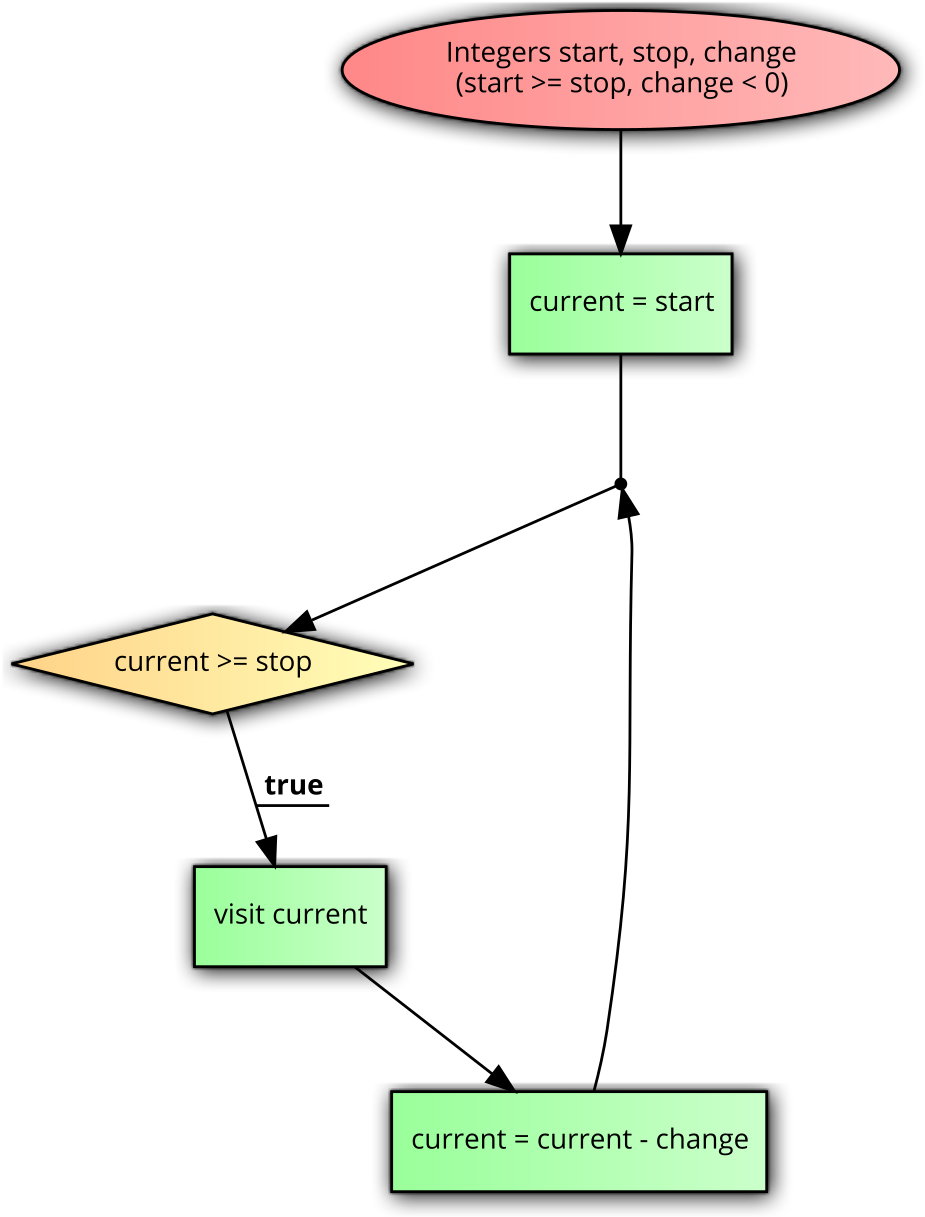
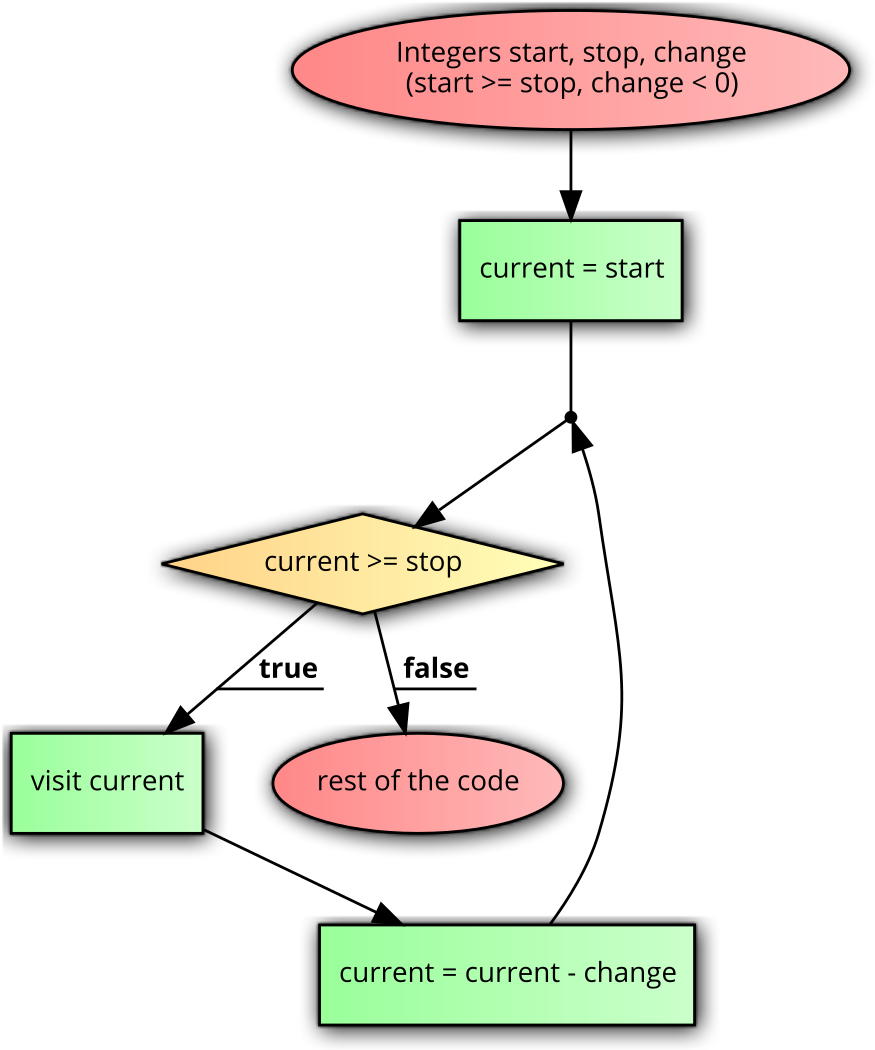
updated loop diagrams (generated from code2flow.com)

Changed region(s): [[0.0, 0.0, 0.9874, 1.0]]

diff --git a/2 - loops/loops.md b/2 - loops/loops.md
@@ -1,0 +1,203 @@
+# Loops
+
+Loops are similar to conditions except that after every iteration of the loop, the expression is checked again.
+
+## A `while` loop
+
+
+```java
+while(boolean expression) {
+	loop code
+}
+rest of the code
+```
+
+<center><img src="whileLoop.png" style="width: 300px;"/></center>
+
+Example:
+
+```java
+int x = 10;
+int result = 5;
+if(x > 8) {
+	result = result + 1;
+}
+print(result);
+```
+
+<center><img src="ifExample.png" style="width: 300px;"/></center>
+
+
+The above code executes the conditional code, increasing `result` by 1 and displaying the value 6.
+
+## An `if-else` condition
+An `if-else` condition executes the if-block if the expression is evaluated to `true` and the else-block if the expression is evaluated to `false`. The rest of code is executes after either case.
+
+```java
+if(boolean expression) {
+	if-block statements
+}
+else {
+	else-block statements
+}
+rest of the code
+```
+
+<center><img src="ifElseCondition.png" style="width: 300px;"/></center>
+
+Example:
+
+```java
+int x = 13;
+boolean isEven;
+if(x % 2 == 0) {
+  isEven = true;
+}
+else {
+  isEven = false;
+}
+println(isEven);
+```
+
+<center><img src="ifElseExample.png" style="width: 250px;"/></center>
+
+The else-block is executed in the above code, `isEven` becomes `false`, and is displayed on the console.
+
+
+##Exercises for conditions
+
+### EXERCISE 1
+
+Draw a flowchart for the following code and determine the values of `a, b, c` after the code executes.
+ 
+```java
+int a = 5, b = 2, c = 10;
+if(a < b) {
+	if(c == a) {
+		c = c + 1;
+	}
+}
+else {
+	if(b < c) {
+		b = c - a;
+	}
+	else {
+		a = 0;
+	}
+}
+```
+
+### EXERCISE 2
+
+Write a piece of code for the following flowchart and determine the values of `a, b, c` after the code executes.
+
+
+<center><img src="nestedIfElseExercise.png" style="width: 250px;"/></center>
+
+##Coding to a truth table
+
+A truth table is one that gives us the required output for some given inputs. For example, in the following table, for inputs `x` and `y`, the desired values for `exp` are provided.
+
+| x     | y     | exp   |
+|-------|-------|-------|
+| false | false | false |
+| false | true  | true  |
+| true  | false | true  |
+| true  | true  | false |
+
+It can be seen that `exp` is `true` when,
+
+- `x = true` and `y = false`, or,
+- `x = false` and `y = true`
+
+We can write this as,
+
+```
+exp = (x && !y) || (!x && y)
+```
+
+However, you can see that `exp` is `true` only when `x` and `y` hold different values. So we can also write a simpler expression as,
+
+```
+exp = (x!=y);
+```
+
+Consider the following scenario: we are given three boolean inputs `a, b, c`. We want an output value `d` based on the following truth table:
+
+| a     | b     | c     | exp   |
+|-------|-------|-------|-------|
+| false | false | false | true  |
+| false | false | true  | true  |
+| false | true  | false | false |
+| false | true  | true  | false |
+| true  | false | false | false |
+| true  | false | true  | false |
+| true  | true  | false | false |
+| true  | true  | true  | true  |
+
+When is `exp = true`? In the following cases:
+
+- `a = false, b = false, c = false`
+- `a = false, b = false, c = true `
+- `a = true, b = true, c = true `
+
+The first and third conditions can be combined as
+
+```
+a == b && b == c
+```
+
+The second condition is
+
+```
+!a && !b && c
+```
+
+Thereby our overall expression is,
+
+```
+exp = (a==b &&b==c) || (!a && !b && c)
+```
+
+Of course, there are better ways to optimize expression building, but for our purpose, this is sufficient.
+
+## Coding in the real world
+
+When will the requirements be as clearly stated as a truth table? *Almost never!*
+
+We need to code to vague/abstract/hazy requirements and in this section, we'll take a look as such scenarios.
+
+### SCENARIO 1
+
+There are students enrolled in degrees and can graduate if they are enrolled in a non-honors undergraduate course and have completed 72 credit points or more, or enrolled in an honors course and have completed 96 credit points or more, or if they are enrolled in a postgraduate program and have completed 48 credit points or more. Write a piece of code that determines if a specific student is eligible to graduate or not. You may assume that the following inputs are available:
+
+1. Course in which student is enrolled: `String`. Can be either "UG"/ "UG (Hons)"/ "PG"
+2. Number of credit points completed: `int`.
+
+### SCENARIO 2
+
+A website offers discounts based on item categories and quantities. There are four categories - A, B, C, and D. For all categories except D, the following rules exist,
+
+- Less than 2 items: no discount
+- Between 2 and 5 items: 15% discount
+- Between 6 and 10 items: 25% discount
+- More than 10 items: 30% discount
+
+
+For category D, there is a 1% discount for every item purchased, up to a maximum of 50 items (and hence a maximum of 50% discount).
+
+
+### SCENARIO 3
+
+TODO
+
+### SCENARIO 4
+
+TODO
+
+
+
+
+
+
+
